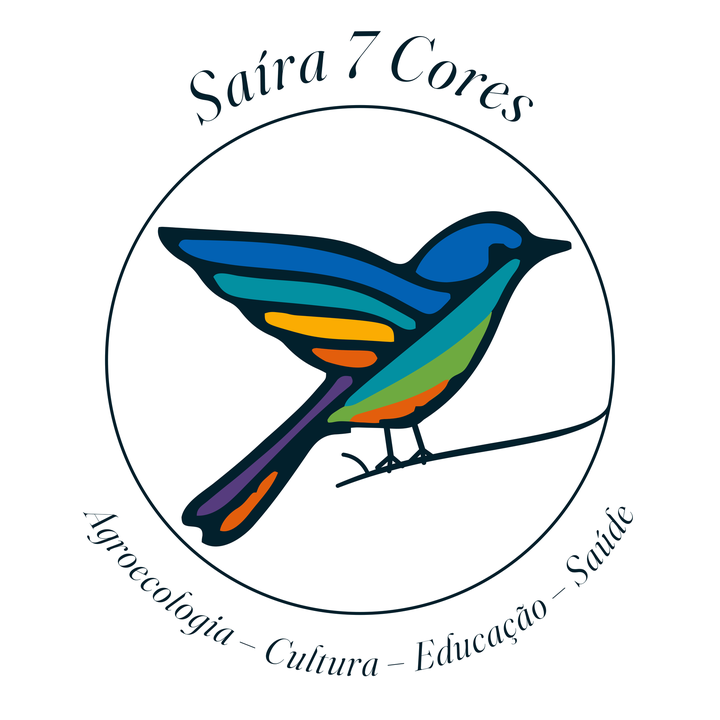
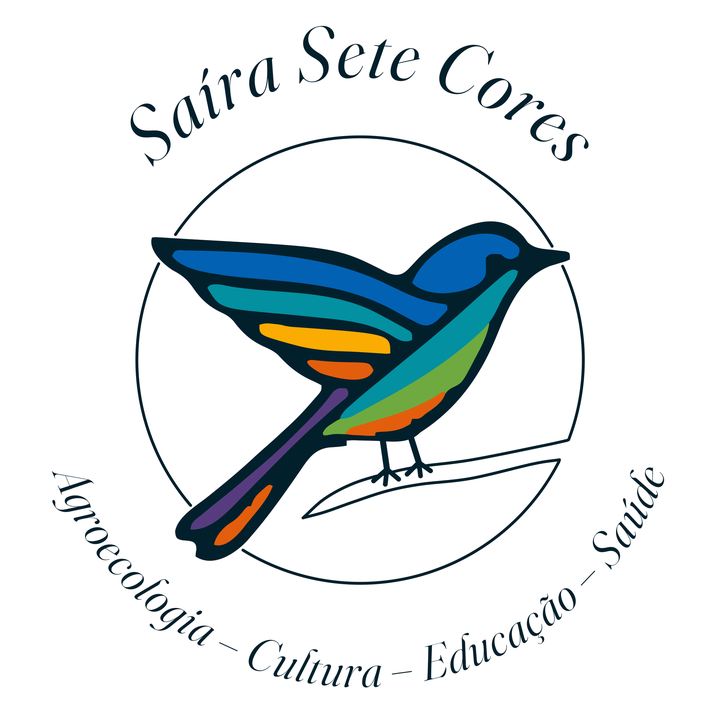
style(marca): selo no formato da referência — círculo por trás do pássaro, galho nascendo da linha, "Saíra Sete Cores" por extenso e texto maior
Claude-Session: https://claude.ai/code/session_01X4S2BbYQyg8SsYUfKZy1tm

diff --git a/brand-kit/README.md b/brand-kit/README.md
@@ -9,9 +9,9 @@ Estes arquivos **não** fazem parte do site publicado (o site usa `public/brand/
 - **Fontes:** Fraunces (títulos) · DM Sans (textos, chapéus em caixa alta espaçada)
 
 ## `logo/` (versão v4, 26/11/2026: pássaro pousado no galho)
-Selo: pássaro pousado no centro, dentro de um círculo fino que envolve o pássaro inteiro (sem cruzar asa, bico nem rabo); o galho nasce do círculo, como um ramo dele. Texto em volta em **Fraunces itálico**.
+Selo: pássaro pousado no centro, com um círculo fino **por trás** dele (asa, bico e rabo passam por cima, e a linha para antes de tocar o pássaro). O **galho nasce da própria linha do círculo**: no lado direito a linha vira o contorno do galho (borda de cima e de baixo), que passa sob os pés e afina na ponta, perto do rabo. Texto em volta em **Fraunces itálico**.
+Em cima: **"Saíra Sete Cores"** (por extenso) · embaixo: **"Agroecologia – Cultura – Educação – Saúde"**.
 `emblema-circulo-galho.svg` = círculo + galho + pássaro em vetor (sem o texto).
-Em cima: **"Saíra 7 Cores"** · embaixo: **"Agroecologia – Cultura – Educação – Saúde"**.
 
 | Arquivo | Uso |
 |---|---|
